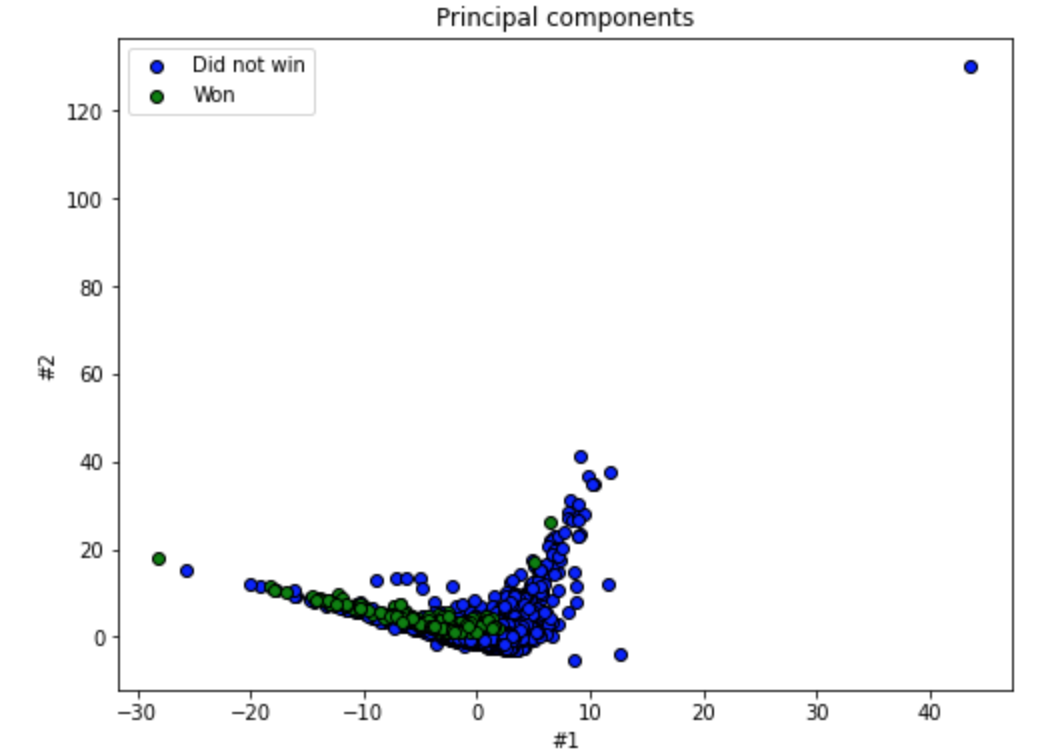
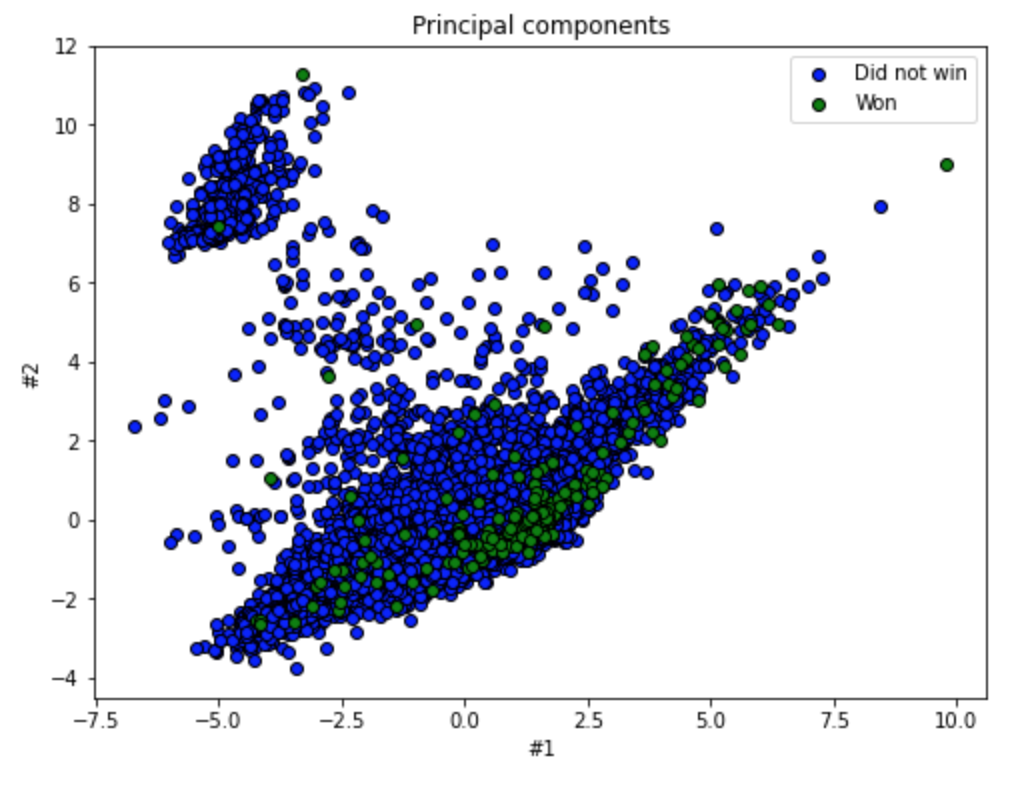
change

diff --git a/Cap3-Desenvolvimento.tex b/Cap3-Desenvolvimento.tex
@@ -2,18 +2,18 @@
 % ---
 \chapter[Desenvolvimento]{Desenvolvimento}
 % ---
-    \subsection{Considerações iniciais}
+    \section{Considerações iniciais}
     Este capítulo descreve as etapas de desenvolvimento dos modelos de previsão de chances de indicação e premiação no Oscar, detalhando as escolhas realizadas e os procedimentos adotados no processo.
 
-    \subsection{Atividades realizadas}
+    \section{Atividades realizadas}
 
-        \textbf{Obtenção dos dados}\par
+        \subsection{Obtenção dos dados}\par
 
         Foi escolhida como fonte de dados para o trabalho a database "The Movies Dataset", da plataforma Kaggle. Trata-se de um conjunto incluindo metadados para todos os 45.000 filmes listados no conjunto Full MovieLens. O conjunto de dados consiste em filmes lançados em ou antes de julho de 2017. Os dados incluem elenco, equipe, palavras-chave do enredo, orçamento, receita, pôsteres, datas de lançamento, idiomas, empresas de produção, países, contagens de votos TMDB e média de votos".\cite{kaggle2017}\par
 
-        A base de dados 'The Oscar Award, 1927 - 2020' foi utilizada para complementar os metadados, adicionando a eles as informações de indicações e vitórias na premiação.\cite{kaggle2019}\newline
+        A base de dados 'The Oscar Award, 1927 - 2020' foi utilizada para complementar os metadados, adicionando a eles as informações de indicações na premiação.\cite{kaggle2019}
 
-        \textbf{Limpeza e tratamento dos dados}\par
+        \subsection{Limpeza e tratamento dos dados}\par
         
         \begin{figure}[htb]
         	\caption{\label{faltantes_film}Dados faltantes na coluna film}
@@ -81,23 +81,23 @@
 
         Para esses casos, foi realizada uma análise de similaridade entre os títulos não encontrados nas duas tabelas, utilizando a biblioteca nativa difflib do Python, e uma análise caso a caso.
 
-        Nessa análise, foram encontradas outras 11 correspondências, que tiveram seus anos e nomes ajustados na tabela do Oscar (figura \ref{corresp}):\newline
+        Nessa análise, foram encontradas outras 11 correspondências, que tiveram seus anos e nomes ajustados na tabela do Oscar (figura \ref{corresp}).
 
         Após essa normalização e integração de instâncias, conseguimos localizar na tabela de metadados 771 dos 942 filmes do Oscar. As informações dos demais 168 serão ignoradas.
 
         Podemos finalmente adicionar as informações dos Oscars ao The Movies Dataset. Para isso, vamos criar colunas no formato one-hot encoding para inserir as informações de nomeação e vitória em cada categoria para cada filme, seguindo a codificação da figura \ref{cat_cods}.
 
-        Para cada um desses códigos, foram criadas duas colunas: '{codigo}\_nominated' e '{codigo}\_won', para designar indicação e vitória na categoria. Também foi adicionada uma coluna para indicar o ano da cerimônia em que participou o filme, com valor None como padrão.\newline
+        Para cada um desses códigos, foram criadas duas colunas: '{codigo}\_nominated' e '{codigo}\_won', para designar indicação e vitória na categoria. Também foi adicionada uma coluna para indicar o ano da cerimônia em que participou o filme, com valor None como padrão.
 
-        Após unificados os dados, pôde ser realizada análise exploratória com Pandas, Numpy, e Scikit Learn para conferir a natureza dos dados, a existência de dados faltantes ou inconsistentes e a existência de tendências que auxiliem na construção dos modelos.\newline
+        Após unificados os dados, pôde ser realizada análise exploratória com Pandas, Numpy, e Scikit Learn para conferir a natureza dos dados, a existência de dados faltantes ou inconsistentes e a existência de tendências que auxiliem na construção dos modelos.
 
-        A coluna 'genres' foi convertida em one-hot encoding, levando-se em consideração apenas gêneros que aparecem mais de uma vez na tabela, a saber: 'animation', 'comedy', 'family', 'adventure', 'fantasy', 'romance', 'drama', 'action', 'crime', 'thriller', 'horror', 'history', 'science\_fiction', 'mystery', 'war', 'foreign', 'music', 'documentary', 'western' e 'tv\_movie'.
+        A coluna 'genres' foi convertida em one-hot encoding, resultado nas colunas: 'animation', 'comedy', 'family', 'adventure', 'fantasy', 'romance', 'drama', 'action', 'crime', 'thriller', 'horror', 'history', 'science\_fiction', 'mystery', 'war', 'foreign', 'music', 'documentary', 'western' e 'tv\_movie'.
 
-        O mesmo processo foi aplicado nas colunas 'spoken\_languages' e 'original\_language', mas levando em consideração todas as linguagens existentes na tabela.
+        O mesmo processo foi aplicado nas colunas country, 'spoken\_languages' e 'original\_language', desconsiderando linguagens e países que aparecem em menos de 500 filmes.
 
         A coluna 'production\_companies' poderia trazer informações interessantes, já que um pequeno número de grandes produtoras detêm a maior parte das indicações e premiações \cite{argon2020}. No entanto, uma análise por one-hot encoding seria difícil nesse caso, já que mais de 15336 produtoras foram encontradas na coluna. Por conta disso, optou-se por remover também esse atributo.
 
-        Alguns tratamentos pontuais foram realizados para modificar e padronizar os valores de algumns atributos: as colunas 'adult' (que indica se um filme é adulto), 'video' (que aponta lançamentos feitos direto para o video), 'budget' (orçamento) e 'popularity' (a métrica de popularidade do MovieLens) foram transformadas em float.
+        Alguns tratamentos pontuais foram realizados para modificar e padronizar os valores de algumns atributos: as colunas 'adult' (que indica se um filme é adulto), 'video' (que aponta lançamentos feitos direto para o video) e 'budget' (orçamento) foram transformadas em float.
         
         Foram localizados também 3 filmes com valores float (NaN) na coluna 'title'. Essas três instâncias parecem ter o mesmo problema: colunas desalinhadas pela falta de algum valor. Na impossibilidade de confirmar exatamente quais dados pertencem a quais colunas, vamos eliminá-las.
         
@@ -121,7 +121,7 @@
             \item 'status' - diz se o filme está em pré-produção, foi finalizado, etc.
         \end{itemize}
 
-        \textbf{Arcabouço de análise exploratória}\par
+        \subsection{Arcabouço de análise exploratória}\par
 
         \begin{figure}[htb]
         	\caption{\label{corrs_graph}Número de correlações maiores que cada valor de threshold}
@@ -131,13 +131,13 @@
         	\legend{Fonte: trabalho nosso}
         \end{figure}
 
-        \begin{figure}[htb]
-        	\caption{\label{corrs0.4}Correlação entre colunas com valor mínimo de 0.4}
-        	\begin{center}
-        		\includegraphics[scale=0.7]{corrs0.4.png}
-        	\end{center}
-        	\legend{Fonte: trabalho nosso}
-        \end{figure}
+        % \begin{figure}[htb]
+        % 	\caption{\label{corrs0.4}Correlação entre colunas com valor mínimo de 0.4}
+        % 	\begin{center}
+        % 		\includegraphics[scale=0.7]{corrs0.4.png}
+        % 	\end{center}
+        % 	\legend{Fonte: trabalho nosso}
+        % \end{figure}
 
         % \begin{figure}[htb]
         % 	\caption{\label{vencedores_efeitos}Filmes vencedores do Oscar de Efeitos Visuais no dataset analisado}
@@ -147,13 +147,13 @@
         % 	\legend{Fonte: trabalho nosso}
         % \end{figure}
 
-        \begin{figure}[htb]
-        	\caption{\label{colunas_influentes_1}Colunas que mais aparecem nas correlações altas (inclui indicações)}
-        	\begin{center}
-        		\includegraphics[scale=0.7]{colunas_influentes_1.png}
-        	\end{center}
-        	\legend{Fonte: trabalho nosso}
-        \end{figure}
+        % \begin{figure}[htb]
+        % 	\caption{\label{colunas_influentes_1}Colunas que mais aparecem nas correlações altas (inclui indicações)}
+        % 	\begin{center}
+        % 		\includegraphics[scale=0.7]{colunas_influentes_1.png}
+        % 	\end{center}
+        % 	\legend{Fonte: trabalho nosso}
+        % \end{figure}
 
         % \begin{figure}[htb]
         % 	\caption{\label{corrs0.4}Correlação entre colunas com valor mínimo de 0.4 - inclui indicações}
@@ -195,74 +195,24 @@
         % 	\legend{Fonte: trabalho nosso}
         % \end{figure}
         
-        \begin{figure}[htb]
-        	\caption{\label{outliers}Análise de outliers nos atributos numéricos}
-        	\begin{center}
-        		\includegraphics[scale=0.7]{outliers.png}
-        	\end{center}
-        	\legend{Fonte: trabalho nosso}
-        \end{figure}
-        
-        \begin{figure}[htb]
-        	\caption{\label{roc1}Curva ROC do modelo de predição de indicação na categoria Best Picture}
-        	\begin{center}
-        		\includegraphics[scale=0.7]{roc1.png}
-        	\end{center}
-        	\legend{Fonte: trabalho nosso}
-        \end{figure}
-        
-        \begin{figure}[htb]
-        	\caption{\label{roc2}Curva ROC do modelo de predição de vitória na categoria Best Picture}
-        	\begin{center}
-        		\includegraphics[scale=0.7]{roc2.png}
-        	\end{center}
-        	\legend{Fonte: trabalho nosso}
-        \end{figure}
-        
-        \begin{figure}[htb]
-        	\caption{\label{confusao_1}Matriz de confusão do modelo de predição de indicações}
-        	\begin{center}
-        		\includegraphics[scale=0.7]{confusao_1.png}
-        	\end{center}
-        	\legend{Fonte: trabalho nosso}
-        \end{figure}
-        
-        \begin{figure}[htb]
-        	\caption{\label{confusao_2}Matriz de confusão do modelo de predição de vitórias}
-        	\begin{center}
-        		\includegraphics[scale=0.7]{confusao_2.png}
-        	\end{center}
-        	\legend{Fonte: trabalho nosso}
-        \end{figure}
-        
-        \begin{figure}[htb]
-        	\caption{\label{coefs_1}Coeficientes do modelo de predição de indicações}
-        	\begin{center}
-        		\includegraphics[scale=0.7]{coefs_1.png}
-        	\end{center}
-        	\legend{Fonte: trabalho nosso}
-        \end{figure}
-        
-        \begin{figure}[htb]
-        	\caption{\label{coefs_2}Coeficientes do modelo de predição de vitórias}
-        	\begin{center}
-        		\includegraphics[scale=0.7]{coefs_2.png}
-        	\end{center}
-        	\legend{Fonte: trabalho nosso}
-        \end{figure}
+        % \begin{figure}[htb]
+        % 	\caption{\label{outliers}Análise de outliers nos atributos numéricos}
+        % 	\begin{center}
+        % 		\includegraphics[scale=0.7]{outliers.png}
+        % 	\end{center}
+        % 	\legend{Fonte: trabalho nosso}
+        % \end{figure}
 
-        Como primeiro ponto da análise exploratória dos dados, foram analisadas as correlações entre as colunas do dataframe. Por se tratar de um grande número de atributos - aproximadamente 240, gerando um número de correlações n**2 de aproximadamente 60000 -, foi necessário experimentar valores mínimos arbitrários para as correlações.
+        Como primeiro ponto da análise exploratória dos dados, foram analisadas as correlações entre as colunas do dataframe. Por se tratar de um grande número de atributos - aproximadamente 52, gerando um número de correlações n**2 de aproximadamente 60000 -, foi necessário experimentar valores mínimos arbitrários para as correlações.
 
         Também ignoramos as correlações entre países de produção. Mesmo as altas entre elas não acrescentavam dados à nossa análise. A coluna que indica filmes produzidos nas Antilhas Holandesas ('country\_AN'), por exemplo, tem correlação perfeita com a coluna que marca filmes produzidos na Polinésia Francesa ('country\_FP').\par
 
-        Levando em conta a viabilidade da análise, decidimos nos limitar às correlações maiores do que 0.4. Correlações maiores do que 0.3 já gerariam uma lista com cerca de 100 itens (figuras \ref{corrs_graph} e \ref{corrs0.4}). \par
+        Levando em conta a viabilidade da análise, decidimos nos limitar às correlações maiores do que 0.4. Correlações maiores do que 0.3 já gerariam uma lista com cerca de 100 itens (figura \ref{corrs_graph}). \par
 
         Algumas das correlações interessantes reveladas por essa análise, e que podem ajudar na construção dos modelos, ou indicar parâmetros importantes:
 
         \begin{itemize}
 
-        \item a mais alta correlação encontrada é entre os atributos 'vote\_count' (o número total de votos que um filme recebeu no site MovieLens) e a arrecadação do filme ('revenue'). Pode indicar que filmes muito assistidos recebem muitos votos no site;
-        
         \item A correlação entre orçamento de um filme e a renda gerada por ele também é muito alta.
 
         \item Existe grande correlação envolvendo a arrecadação de um filme é a indicação na categoria de efeitos visuais ('nominated\_visual\_effects'). Reforçamos a existência dessa relação entre arrecadação e efeitos visuais ao ver que 12 dos 16 vencedores do oscar de efeitos visuais no nosso dataset final estão na lista de 200 maiores bilheterias da história \cite{mojo2021};
@@ -270,12 +220,10 @@
         \item O atributo mais presente nas altas correlações é a coluna 'nominated\_best\_picture'. Há uma grande relação entre filmes indicados ao Oscar de melhor filme, a principal categoria da premiação, e a indicação e vitória em outras categorias.
 
         \item 10 correlações envolvem as colunas relacionadas ao prêmio de melhor direção ('nominated\_directing' e 'won\_directing').
-
-        \item 17 colunas podem ser consideradas as mais "influentes" nas correlações (figura \ref{colunas_influentes_1}). Para realizar essa análise, desconsideramos as colunas de vitória em categorias ('won\_***'), que serão usadas sempre como classe e nunca como atributo.
         
         \end{itemize}
         
-        Como se pode ver, as colunas que representam indicações ('nominated\_*') foram dominantes nessa análise. Mas é preciso levar em consideração que elas serão utilizadas como classe em uma das versões definidas do problema. Por isso, foi feita uma segunda versão da análise, desconsiderando essas colunas, para entender quais são as outras colunas que apresentam grande correlação com os outros atributos.
+        As colunas que representam indicações ('nominated\_*') foram dominantes nessa análise. Mas é preciso levar em consideração que elas serão utilizadas como classe em uma das versões definidas do problema. Por isso, foi feita uma segunda versão da análise, desconsiderando essas colunas, para entender quais são as outras colunas que apresentam grande correlação com os outros atributos.
         
         Nessa versão, para limitar o número de correlações, foram analisadas as correlações superiores a 0.15. Dessa vez, as colunas relativas a gêneros ('genre\_*') foram predominantes.
 
@@ -283,45 +231,95 @@
         
         A representação em duas dimensões mostra um dado interessante: os filmes vitoriosos parecem se concentrar num ponto do espaço, o que pode significa uma maior chance de êxito na criação de superfícies de decisão que tragam uma resposta para o problema (figura \ref{pca_2}).
         
-        \textbf{Remoção de outliers}\par
-        Foi analisada a possibilidade de remoção de outliers nos atributos numéricos ('budget', 'popularity', 'revenue', 'runtime', 'vote\_average', 'vote\_count' e 'release\_day'), considerando-se outliers os valores a mais de 3 desvios-padrão de distância - da média dos atributos.\par
+        \subsection{Remoção de outliers}\par
+        Foi analisada a possibilidade de remoção de outliers nos atributos numéricos ('budget', 'revenue', 'runtime', e 'release\_day'), considerando-se outliers os valores a mais de 3 desvios-padrão de distância - da média dos atributos.\par
         
-        A comparação da proporção de indicados ao Oscar, nossa classe de interesse, entre os outliers em cada um desses atributos mostrou que a remoção de outliers afetaria significativamente a amostragem da classe de interesse, que já é baixa. Por esse motivo, optamos por manter os outliers (figura \ref{outliers}).
+        A comparação da proporção de indicados ao Oscar, nossa classe de interesse, entre os outliers em cada um desses atributos mostrou que a remoção de outliers afetaria significativamente a amostragem da classe de interesse, que já é baixa. Por esse motivo, optamos por manter os outliers.
 
-        \textbf{Seleção de atributos}\par
+        \subsection{Seleção de atributos}\par
         
-        Para permitir a obtenção de melhores resultados, além de reduzir o custo computacional do treinamento dos modelos, o grande número de atributos do dataset nesse ponto foi reduzido com a ajuda a regressão por stepwise. Foram utilizados thresholds de inclusão de 0.01 e de exclusão de 0.7, resultando na redução dos 428 atributos para apenas 13: 'vote\_count', 'vote\_average', 'genre\_drama', 'release\_day', 'country\_US', 'spoken\_language\_XH', 'genre\_history', 'genre\_action', 'country\_FR', 'original\_language\_EN', 'spoken\_language\_SH', 'country\_IN' e 'country\_AT'.
+        Para permitir a obtenção de melhores resultados, além de reduzir o custo computacional do treinamento dos modelos, foi testada a redução d grande número de atributos do dataset pela regressão por stepwise. Foram utilizados thresholds de inclusão de 0.01 e de exclusão de 0.7, resultando na redução dos 97 atributos para apenas 12: 'revenue', 'release\_day', 'genre\_drama', 'country\_US', 'runtime', 'genre\_history', 'genre\_action', 'spoken\_language\_FR', 'genre\_family', 'original\_language\_EN', 'country\_FR', 'country\_IN'.
         
-        Dentre esses, optamos por excluir alguns que são representativos de um número muito pequeno de instâncias, e poderiam gerar overfitting. Por esse motivo, foram desconsiderados os atributos "spoken\_language\_XH", "country\_FR", "spoken\_language\_SH", "country\_IN" e "country\_AT".\newline
+        Uma segunda versão do modelo foi treinada com atributos selecionados manualmente: 'revenue', 'release\_day', 'genre\_drama', 'country\_US', 'runtime'.
 
-        \textbf{Separação em conjuntos de treinamento, validação e teste}\par
+        \subsection{Separação em conjuntos de treinamento, validação e teste}\par
         
         Os dois modelos foram treinados e avaliados seguindo a mesma lógica de separação dos dados: 70\% são usados para treinamento dos modelos; 15\% são utilizados para validar os modelos tentar obter os melhores resultados; e os 15\% finais são guardados para sem utilizados apenas no teste final dos modelos escolhidos.
         
-        Para criação desses conjuntos, foi utilizada a função "train\_test\_split" da biblioteca Scikit-learn. A função é aplicada uma vez para separação dos 70\% de treinamento e uma segunda vez para dividir os conjuntos de teste e validação.\newline
+        Para criação desses conjuntos, foi utilizada a função "train\_test\_split" da biblioteca Scikit-learn. A função é aplicada uma vez para separação dos 70\% de treinamento, e uma segunda vez para dividir os 30 \% restantes em conjuntos em teste e validação.\newline
         
         Como os dados possuem classes desbalanceadas (uma fração muito pequena dos filmes é indicada ou vence o Oscar), todas essas operações utilizaram o parametro 'stratify'. Com esse argumento recebendo o valor True, garantimos que todos os subconjuntos criados tenham a mesma proporção de cada positivos e negativos.
 
-        \textbf{Criação de modelos}\par
-        Foram criados dois modelos de regressão logística:
+        \subsection{Criação de modelos}\par
+        Foram criados os seguintes modelos de regressão logística:
         
         \begin{itemize}
-            \item Modelo 1: para inferir a chance de indicação na categoria Melhor Filme ("Best Picture"), utilizando diferentes algoritmos, para todos os filmes;
-            \item Modelo 2: para inferir a chance de vitória apenas entre os filmes indicados à categoria "Best Picture";
+            \item Modelo 1: para inferir a chance de indicação na categoria Melhor Filme ("Best Picture"), treinado a partir de atributos selecionados automaticamente pelo método stepwise;
+            
+            \item Modelo 2: para inferir a chance de indicação na categoria Melhor Filme ("Best Picture"), treinado a partir de atributos selecionados manualmente;
+
         \end{itemize}
         
-        Ambos foram analisados por seus gráficos de curva ROC (figuras \ref{roc1} e \ref{roc2}). Como mostra a curva, o gráfico  do modelo 1 tem desempenho muito melhor que um classificador aleatório (ver \citeonline{mastery2021}). O mesmo não vale para o modelo 2, que em vários momentos tem desempenho pior que o modelo aleatório, e apenas para alguns thresholds apresenta desempenho pouquíssimo melhor.
-
-        \textbf{Avaliação comparativa dos resultados}\par
-        Para seleção do melhor threshold, foi utilizada a métrica de score f1.
+        \begin{figure}[htb]
+        	\caption{\label{roc1}Curva ROC do modelo de predição de indicação, com seleção stepwise de atributos}
+        	\begin{center}
+        		\includegraphics[scale=0.7]{roc1.png}
+        	\end{center}
+        	\legend{Fonte: trabalho nosso}
+        \end{figure}
         
-    \subsection{Resultados obtidos}
+        \begin{figure}[htb]
+        	\caption{\label{roc2}Curva ROC do modelo de predição de indicação, com seleção manual de atributos}
+        	\begin{center}
+        		\includegraphics[scale=0.7]{roc2.png}
+        	\end{center}
+        	\legend{Fonte: trabalho nosso}
+        \end{figure}
+        
+        % \begin{figure}[htb]
+        % 	\caption{\label{roc3} Curva ROC do modelo de predição de vitória na categoria Best Picture, com seleção stepwise}
+        % 	\begin{center}
+        % 		\includegraphics[scale=0.7]{roc3.png}
+        % 	\end{center}
+        % 	\legend{Fonte: trabalho nosso}
+        % \end{figure}
+        
+        % \begin{figure}[htb]
+        % 	\caption{\label{roc4}Curva ROC do modelo de predição de vitória na categoria Best Picture, com seleção manual de atributos}
+        % 	\begin{center}
+        % 		\includegraphics[scale=0.7]{roc4.png}
+        % 	\end{center}
+        % 	\legend{Fonte: trabalho nosso}
+        % \end{figure}
+        
+        \begin{figure}[htb]
+        	\caption{\label{confusao_1}Matriz de confusão do melhor modelo de predição de indicações}
+        	\begin{center}
+        		\includegraphics[scale=0.7]{confusao_1.png}
+        	\end{center}
+        	\legend{Fonte: trabalho nosso}
+        \end{figure}
+        
+        \begin{figure}[htb]
+        	\caption{\label{coefs_1}Coeficientes do melhor modelo de predição de indicações}
+        	\begin{center}
+        		\includegraphics[scale=0.7]{coefs_1.png}
+        	\end{center}
+        	\legend{Fonte: trabalho nosso}
+        \end{figure}
+        
+        Todos os modelos foram analisados por seus gráficos de curva ROC (figuras \ref{roc1} e \ref{roc2}). Como mostra a curva, o gráfico  do modelo 1 tem desempenho muito melhor que um classificador aleatório (ver \citeonline{mastery2021}). O mesmo não vale para o modelo 2, que em vários momentos tem desempenho pior que o modelo aleatório, e apenas para alguns thresholds apresenta desempenho pouquíssimo melhor.
+
+        \subsection{Avaliação comparativa dos resultados}\par
+        Para seleção do melhor threshold, foi utilizada a métrica de score f1. Incrementos de 0.01 foram feitos para thresholds entre 0 e 1, e o f1 score foi calculado para cada um dos thresholds. O threshold em que se obteve o melhor score f1 é considerado, em cada modelo, como o melhor threshold.
+        
+    \section{Resultados obtidos}
         
         O threshold com os melhores resultados para o modelo 1 foi de 0.15, com um f1 de 0.45. Com esse modelo, foi possível prever no conjunto de teste 7 verdadeiros positivos, com 11 falsos positivos e 9 falsos negativos, resultado bastante razoável num universo de 3454 instâncias de treinamento (figura \ref{confusao_1}).
         
         Já para o modelo 2, o melhor threshold encontrado foi de 0.33, com um f1 de 0.33. Com esse modelo, não foi possível prever no grupo de validação nenhum verdadeiro positivo, com 4 falsos positivos e 3 falsos negativos.(figura \ref{confusao_2})
 
-        \textbf{Avaliação de importância dos metadados}\par
-        A análise dos maiores coeficientes do modelo 1, em valor absoluto, revela a importância para o modelo de alguns critérios esperados, como data de lançamento, popularidade, média dos votos no MovieLens, orçamento e renda. Alguns fatores menos óbvios que tiveram impacto no treinamento foram duração, se o filme foi lançado em vídeo, o número de votos no Movie Lens e se o filme é adulto ou não.(figura \ref{coefs_1})\par
+        \subsection{Avaliação de importância dos metadados}\par
+        A análise dos maiores coeficientes do modelo 1, em valor absoluto, revela a importância para o modelo de alguns critérios esperados, como data de lançamento, orçamento e renda. Alguns fatores menos óbvios que tiveram impacto no treinamento foram duração, se o filme foi lançado em vídeo, e se o filme é adulto ou não.(figura \ref{coefs_1})\par
         
         Para o modelo 2, em valor absoluto, os fatores que mais influenciaram o modelo foram, nessa ordem: se o filme foi lançado em vídeo, duração, média dos votos no Movie Lens, renda, popularidade no Movie Lens, adulto ou não-adulto e. orçamento.(figura \ref{coefs_2})\par

diff --git a/Cap4-Conclusao.tex b/Cap4-Conclusao.tex
@@ -3,11 +3,11 @@
 \chapter[Conclusão]{Conclusão}
 % ---
     \section{Interpretação dos resultados}\par
-        O primeiro fato de destaque na conclusão dos resultados é que o algoritmo de regressão logística não apresentou bons resultados na predição dos filmes vitoriosos entre os indicados. Isso pode ser devido ao pequeno número de instâncias a serem analisadas (114) ou mesmo à difícil predição do caráter humano da premiação, que é afetada pelos temas de cada filme, tendências artísticas e de conteúdo de cada ano, além de outras nuances sutis. Há que se considerar ainda a hipótese de que um outro modelo, com parâmetros mais bem ajustados, ou outro critério de seleção de atributos, obtenha melhor resultado.
+        Os resultados talvez fossem melhores não fosse pelo pequeno número de instâncias a serem analisadas ou mesmo à difícil predição do caráter humano da premiação, que é afetada pelos temas de cada filme, tendências artísticas e de conteúdo de cada ano, além de outras nuances sutis. Há que se considerar ainda a hipótese de que um outro modelo, com parâmetros mais bem ajustados, ou outro critério de seleção de atributos, obtivesse melhor resultado.
         
-        Os resultados ruins do modelo de predição de vitórias contrasta com os bons resultados obtidos na fase anterior, de predição de filmes indicados ao Oscar. Esse modelo de regressão obteve um bom equilíbrio entre precisão e revocação, conseguindo prever um número considerável de verdadeiros positivos, sem incorrer em um grade número de falsos negativos ou falsos positivos.
+        Ainda que não sejam excelentes, os resultados apontam na direção de uma possibilidade de predição de filmes indicados ao Oscar. O modelo de regressão obteve um bom equilíbrio entre precisão e revocação, conseguindo prever um número considerável de verdadeiros positivos, sem incorrer em um grade número de falsos negativos ou falsos positivos.
         
-        O modelo de predição de indicações ao Oscar condiz com a expectativa de que fatores conhecidos como data de lançamento, popularidade, média dos votos no site MovieLens, orçamento e renda tivessem grande influência, demonstrando ainda a importância de atributos menos esperados como duração, número de votos no Movie Lens, e se o filme é adulto ou não.
+        O modelo de predição de indicações ao Oscar condiz com a expectativa de que fatores conhecidos como data de lançamento, orçamento e renda tivessem grande influência, demonstrando ainda a importância de atributos menos esperados como duração, e se o filme é adulto ou não.
         
         De forma geral, os resultados apontam para a possibilidade de predição das chances de indicação de um filme, desde que conhecidas as variáveis acima. A questão das chances de vitória entre os indicados, por sua vez, permanece em aberto, já que os resultados ruins obtidos não são suficientes para concluir a impossibilidade dessa predição.
 
@@ -25,3 +25,5 @@
         Um subproduto possível da pesquisa é a criação do dataset unificado de metadados e indicações ao Oscar. A validação e consolidação desse dataset, ou a utilização de um dataset de metadados que já traga informações da premiação do Oscar, poderia gerar resultados melhores, e concentraria o esforço da pesquisa na possibilidade ou não de prever indicações, e com quais modelos.
         
         Próximos passos possíveis para a pesquisa também incluem a análise da predição com outros algoritmos além da regressão logística, e com expansão do problema para as outras categorias além de melhor filme.
+        
+        Os resultados mostram também um desempenho bastante consistente entre o modelo treinado com seleção stepwise de atributos e o treinado a partir da seleção manual de atributos que, intuitivamente, parecem relacionados às indicações. Uma investigação de subconjuntos possíveis dos atributos, e seus resultados, poderia revelar a existência de um ou mais atributos em comum que sejam determinantes na obtenção desses resultados.

diff --git a/Cap1-Introducao.tex b/Cap1-Introducao.tex
@@ -11,9 +11,9 @@ Detectar e prever tendências de mercado pode ser essencial para aumentar as cha
 
 Esse trabalho tem como objetivo investigar como os dados de orçamento, receita, data de lançamento, linguagens, país de produção e empresas produtoras, palavras-chave da trama, créditos de elenco e equipe, entre outros, influenciam nas chances de premiação no Oscar. Especificamente, objetiva-se:\par
 
-- detectar quais fatores são os mais preditivos com relação à chance de nomeação ou vitória de um filme no Oscar, e com qual grau de certeza é possível fazer essa previsão;\par
+- detectar quais fatores são os mais preditivos com relação à chance de nomeação de um filme no Oscar, e com qual grau de certeza é possível fazer essa previsão;\par
 - considerar dados adicionais que possam complementar a atividade preditiva;\par
-- analisar a importância individual dos fatores nas indicações e premiações;\par
+- analisar a importância individual dos fatores nas indicações;\par
 - extrapolar as conclusões, se possível, para fatores que influenciam e permitem o cálculo de chances de indicações e vitórias em outras premiações.\par
 \par
 
@@ -22,14 +22,13 @@ A metodologia para fazer essa investigação seguirá os seguintes passos:\par
 1. utilização de históricos de metadados de filmes e indicações ao Oscar obtidos na plataforma Kaggle;\par
 2. limpeza e tratamento dos dados, verificando-se por dados faltantes, espúrios, e extremos indicados por meio de análises de distribuição;\par
 3. criação de um arcabouço de análise exploratória em ambiente Python fazendo-se uso dos pacotes Pandas, Numpy, e Scikit Learn;\par
-4. criação de modelos de classificação para a chance de premiação utilizando diferentes algoritmos;\par
+4. criação de modelos de classificação para a chance de indicação utilizando regressão logística;\par
 5. avaliação comparativa dos resultados;\par
 6. avaliação da importância de cada fator (metadado) baseando-se no feedback dos modelos testados;\par
 7. interpretação dos resultados para elaboração das conclusões com indicação das técnicas mais promissoras.\par
 \par
 
-Entre os resultados esperados, pode-se destacar a descoberta dos melhores modelos de predição de indicações e vitórias que ajudem a gerar previsibilidade do desempenho de um filme em premiações, e a obtenção de um ou mais modelos a partir dos dados de orçamento, receita, data de lançamento, linguagens, país de produção e empresas produtoras, palavras-chave da trama, créditos de elenco e equipe, entre outros, para inferir:\par
+Entre os resultados esperados, pode-se destacar a descoberta dos melhores modelos de predição de indicações que ajudem a gerar previsibilidade do desempenho de um filme em premiações, e a obtenção de um ou mais modelos a partir dos dados de orçamento, receita, data de lançamento, linguagens, país de produção, entre outros, para inferir:\par
 
 a) a chance de que um filme seja indicado para o Oscar em uma determinada categoria;\par
-b) a chance de que o filme, se indicado, ganhe naquela categoria;\par
-d) a interpretação da importância de cada fator (metadado) nas chances de indicação e premiação.\par
+b) a interpretação da importância de cada fator (metadado) nas chances de indicação e premiação.\par
